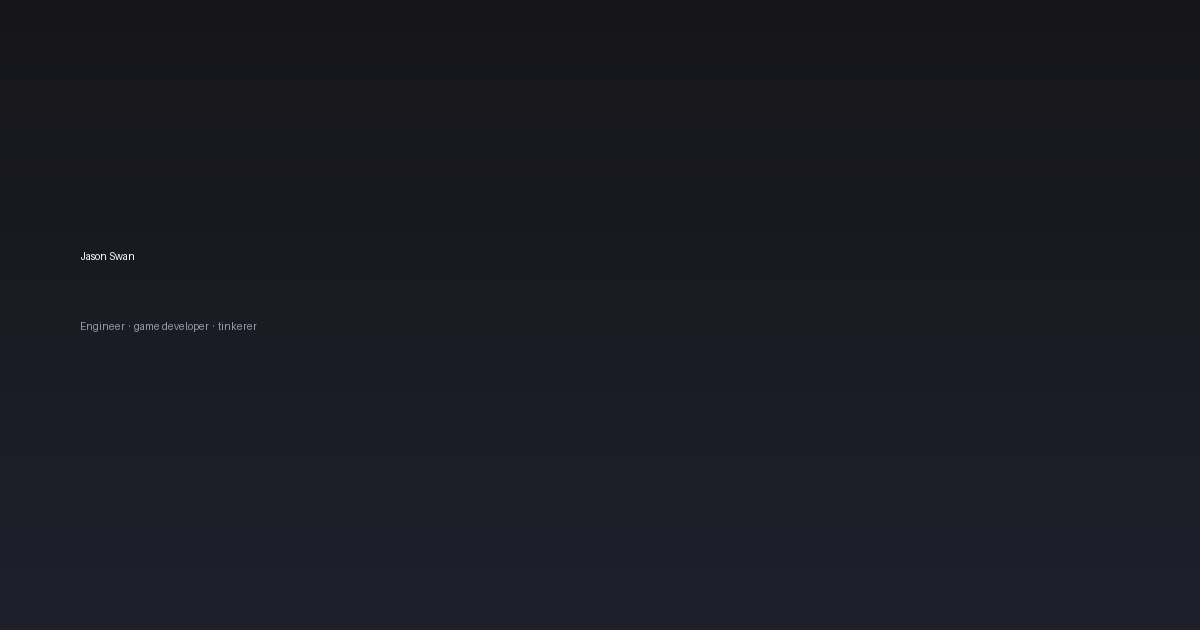
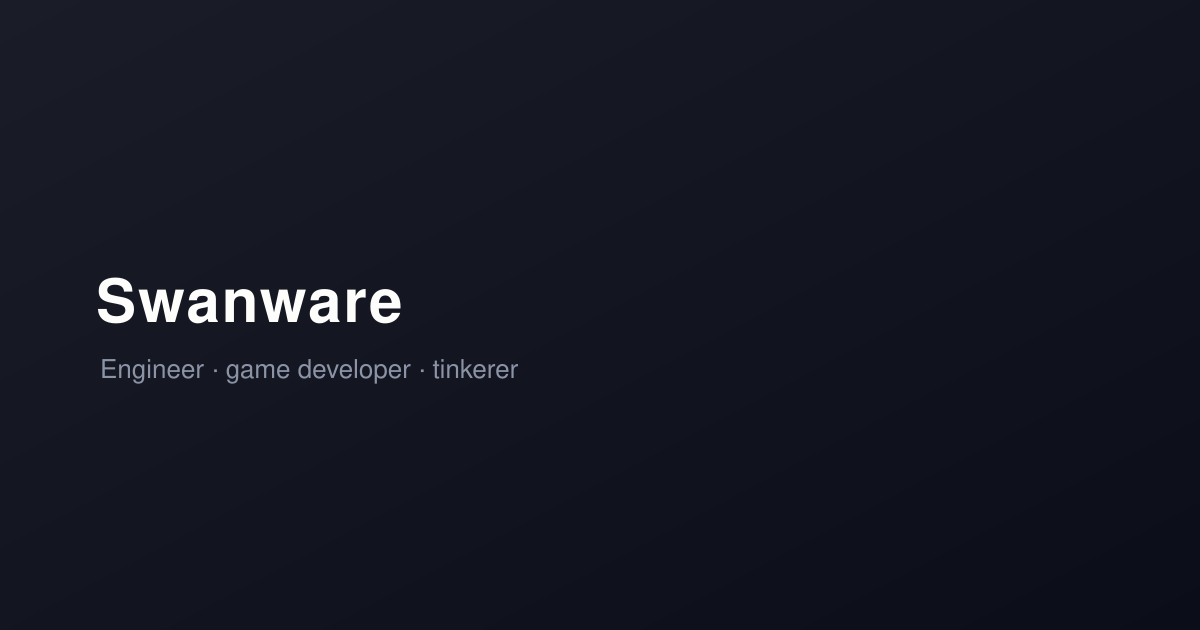
Rebrand to Swanware, cut placeholders, add PowerDemo card
- All 'Jason Swan' instances -> 'Swanware' (page h1, BaseLayout site
  name, default meta description, RSS channel, About description)
- Cut the 'Engineer by day...' homepage lede
- Homepage sections renamed: 'Things you can play' -> 'Digital',
  'Things I've built' -> 'Physical', 'Things you can read' -> 'Writing'
- Section remap to match the new names: software joins games and
  interactive work under Digital; Physical holds physical builds
  (section hides while empty)
- Cut placeholder projects (Grid Explorer, Power Flow Explorer, Raccoon
  Detective, Trail Notes, Puzzle Box) and their images
- Added PowerDemo under Digital: shipped card with live iframe embed
  (served from the powerdemo repo's own Pages under /powerdemo/) plus
  demo and source links
- Placeholder cleanups: footer and About contact links now point at
  github.com/swan-eternal and swanware.itch.io; About lede written
- favicon monogram JS -> SW; social card regenerated for Swanware via
  new scripts/make-social-card.mjs (same minimal style)
- README multi-repo example updated grid-explorer -> powerdemo

Changed region(s): [[0.0617, 0.3921, 0.3392, 0.5429], [0.0617, 0.573, 0.4317, 0.6032]]

diff --git a/src/content.config.ts b/src/content.config.ts
@@ -5,8 +5,8 @@ import { z } from 'astro/zod';
 /**
  * Two collections, mirroring the two halves of the site:
  *
- *   projects/  -> the "Things you can play" / "Things I've built" grids
- *   blog/      -> the "Things you can read" list
+ *   projects/  -> the "Digital" / "Physical" grids
+ *   blog/      -> the "Writing" list
  *
  * Each collection uses the `glob` loader (reads a folder of Markdown files
  * at build time) plus a Zod schema. The schema is the important part: it
@@ -43,10 +43,10 @@ const projects = defineCollection({
       updatedDate: z.coerce.date().optional(),
 
       // Which grid the project appears in:
-      //   game       -> "Things you can play"
-      //   interactive-> "Things you can play" (data viz, small web apps)
-      //   software   -> "Things I've built"
-      //   physical   -> "Things I've built" (machined parts, rigs, gear)
+      //   game       -> "Digital"
+      //   interactive-> "Digital" (data viz, small web apps)
+      //   software   -> "Digital"
+      //   physical   -> "Physical" (machined parts, rigs, gear)
       kind: z.enum(['game', 'interactive', 'software', 'physical']),
 
       // Where the work stands. Shown as a small badge.

diff --git a/src/pages/rss.xml.ts b/src/pages/rss.xml.ts
@@ -33,7 +33,7 @@ export async function GET({ site }: { site: URL }) {
 <rss version="2.0" xmlns:atom="http://www.w3.org/2005/Atom">
   <channel>
     <atom:link href="${new URL('/rss.xml', site).href}" rel="self" type="application/rss+xml"/>
-    <title>Jason Swan</title>
+    <title>Swanware</title>
     <link>${site.href}</link>
     <description>Notes on games, tools, hardware, and the occasional tangent.</description>
     <language>en-us</language>

diff --git a/src/content/projects/powerdemo.md b/src/content/projects/powerdemo.md
@@ -1,0 +1,39 @@
+---
+title: PowerDemo
+description: A small power system you can operate — full Newton-Raphson power flow solved live in the browser. Open breakers, island the network, apply faults.
+pubDate: 2026-11-23
+kind: interactive
+status: shipped
+stats:
+  - TypeScript
+  - Newton-Raphson
+  - zero runtime deps
+links:
+  - label: Open the demo
+    url: https://swan-eternal.github.io/powerdemo/
+  - label: Source
+    url: https://github.com/swan-eternal/powerdemo
+embeds:
+  - title: PowerDemo — live one-line
+    src: /powerdemo/
+    height: 640
+    caption: Live — the solver runs in the page. Click any bus, line, breaker, or generator.
+---
+
+## What it is
+
+A seven-bus transmission system — grid tie, a generator, an industrial
+load, a residential ring — with the full AC power flow solved in your
+browser on every change. No server, no WASM, no libraries: the
+Newton-Raphson solver, admittance model, and islanding logic are plain
+TypeScript, warm-started from the previous solution so slider drags feel
+instant.
+
+## What you can do to it
+
+Open breakers and watch islands de-energize and frequency drift on
+droop. Apply a fault anywhere on a line and watch current rush in from
+both terminals — each side animated at its own real infeed. Chase a
+voltage sag with the generator's excitation until it hits its reactive
+ceiling, then recover it with the cap banks or the LTC tap. Loads shed
+the way real ones do as voltage sags.

diff --git a/README.md b/README.md
@@ -139,7 +139,7 @@ site's domain:
 ```
 your-domain.com/                 <- this repo
 your-domain.com/astro-rescue/    <- the astro-rescue repo
-your-domain.com/grid-explorer/   <- the grid-explorer repo
+your-domain.com/powerdemo/       <- the powerdemo repo
 your-domain.com/revelation-space/ <- the revelation-space-map repo
 ```
 
